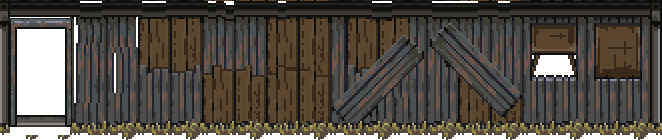
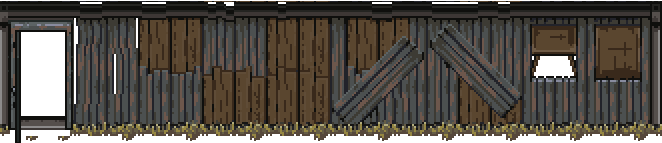
24.01.2023 Added interior objects

diff --git a/src/object/exterior/doors/OBJ_Door3.java b/src/object/exterior/doors/OBJ_Door3.java
@@ -1,0 +1,51 @@
+package object.exterior.doors;
+
+import entity.Entity;
+import main.GamePanel;
+import object.Object;
+
+
+public class OBJ_Door3 extends Object {
+
+    GamePanel gp;
+    public final static String objName = "Door3";
+    boolean opened = false;
+
+    public OBJ_Door3(GamePanel gp, int col, int row) {
+        super(gp,col,row);
+        int height = (gp.tileSize*2)-30 ;
+        int width = gp.tileSize+15;
+
+        type = typeObstacle;
+        name = objName;
+        image = setup("tiles/exterior/doors/door3", width, height);
+        image2 = null;
+        //image2 = setup("objects/interactiveobjects/dooropened", width, height);
+        down1 = image;
+        collision = true;
+        this.gp = gp;
+        solidArea.x = 20;
+        solidArea.y = 8;
+        solidArea.width = 48;
+        solidArea.height = 48;
+        solidAreaDefaultX = solidArea.x;
+        solidAreaDefaultY = solidArea.y;
+
+
+    }
+
+    public void interact() {
+
+        if (!opened) {
+            gp.playSE(2);
+            down1 = image2;
+            opened = true;
+            collision = false;
+        }else{
+            gp.player.attackCanceled = false;
+            gp.player.shotCanceled = false;
+        }
+
+    }
+
+}

diff --git a/src/main/AssetSetter.java b/src/main/AssetSetter.java
@@ -229,6 +229,8 @@ public class AssetSetter {
         gp.obj[mapNum][i] = new WL_Sidewall(gp,90,33);i++;
         gp.obj[mapNum][i] = new WL_Sidewall(gp,90,35);i++;
         gp.obj[mapNum][i] = new WL_Sidewall(gp,90,37);i++;
+
+        gp.obj[mapNum][i] = new OBJ_Door3(gp,79,38); i++;
         //gp.obj[mapNum][i] = new WL_Sidewall(gp,90,37);i++;
 
 
